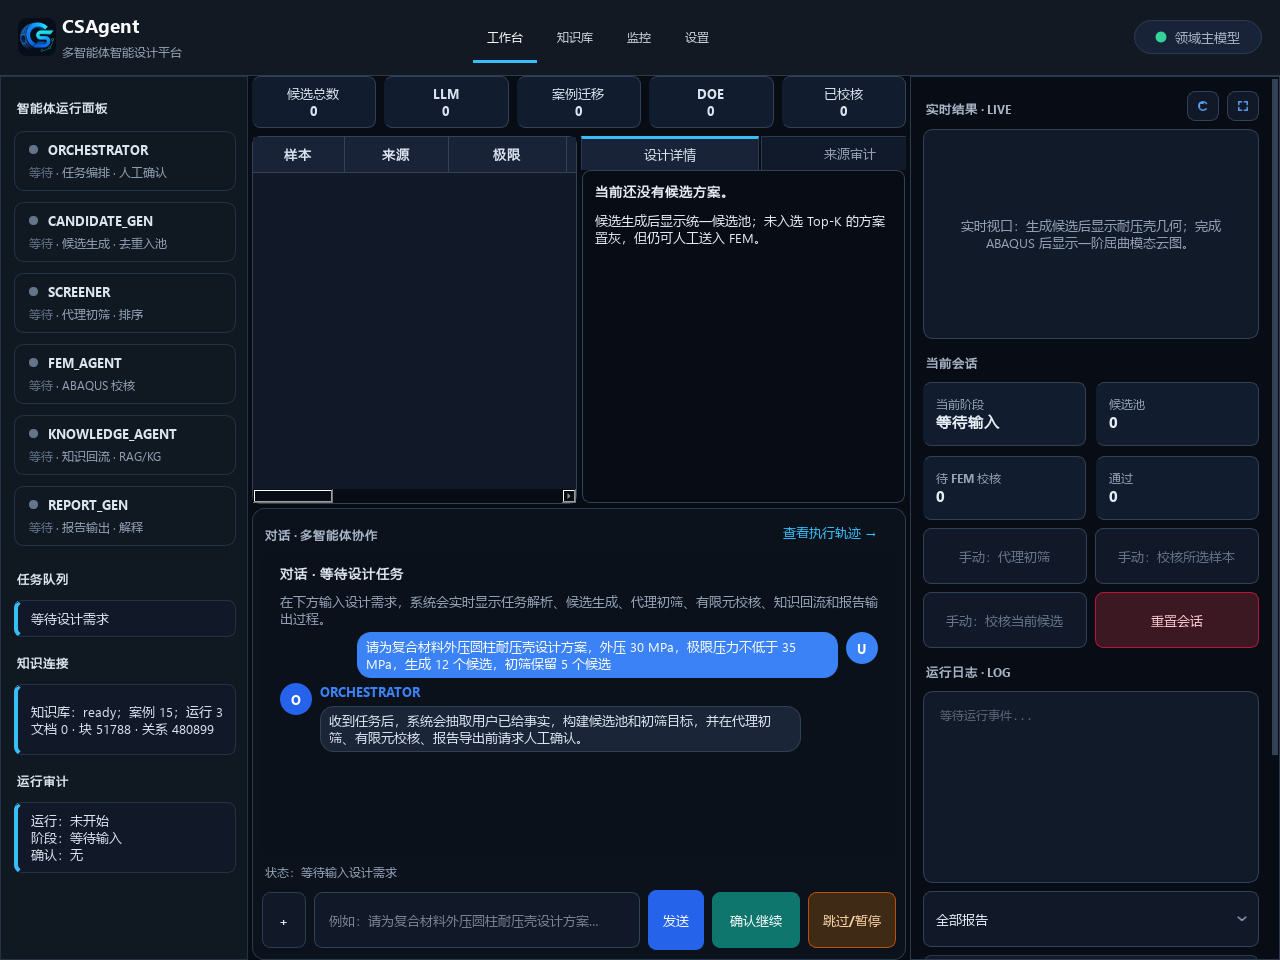
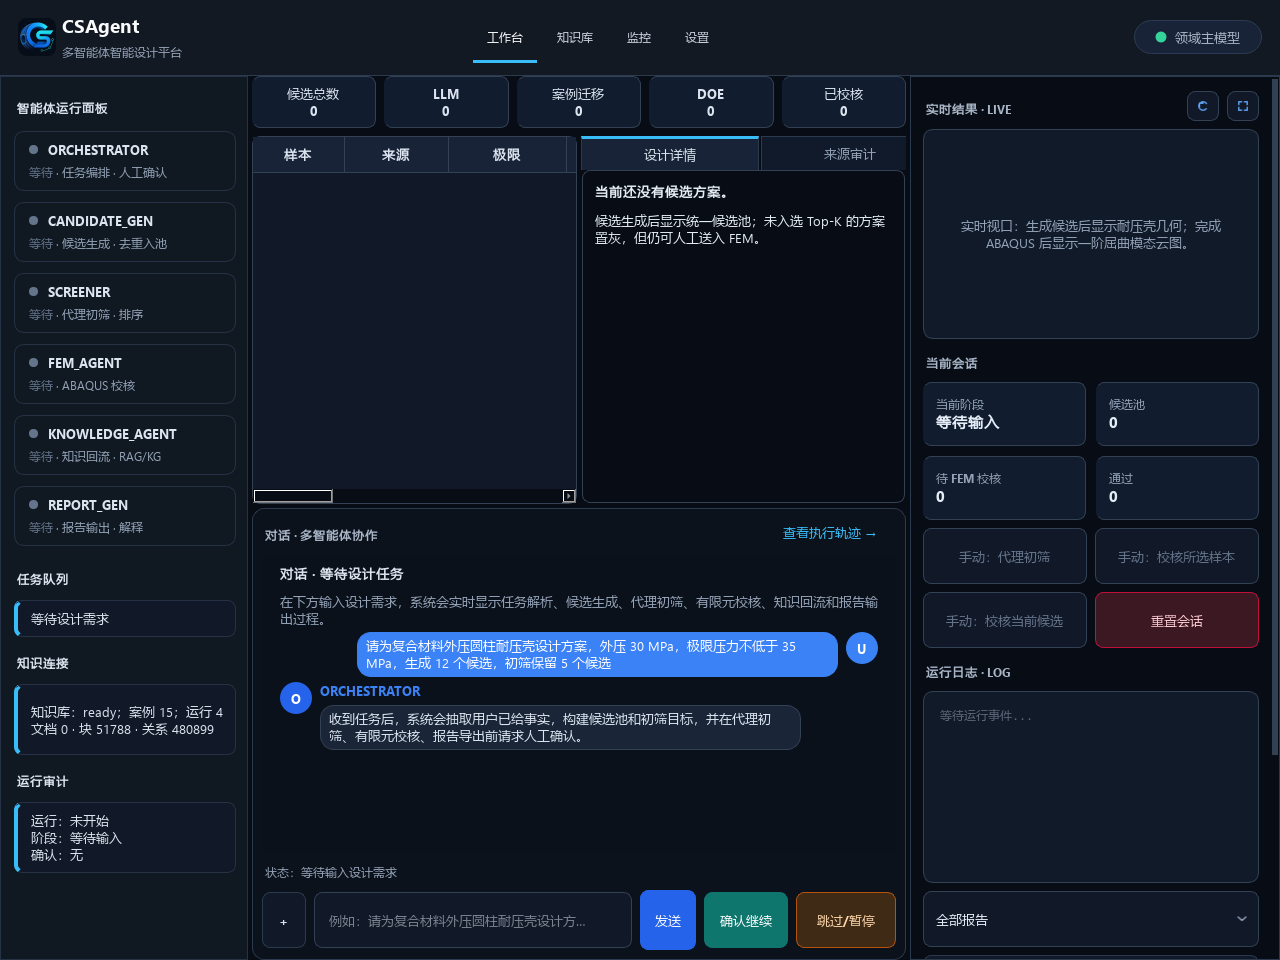
优化运行交互与知识图谱显示

Changed region(s): [[0.2188, 0.6562, 0.625, 0.7812], [0.5, 0.9062, 0.6875, 1.0]]

diff --git a/gui/chat_widget.py b/gui/chat_widget.py
@@ -19,6 +19,7 @@ class ChatWidget(QWidget):
         self.empty_text = ""
         self.empty_state: dict[str, str] = {}
         self._last_render_width = 0
+        self._resize_render_pending = False
 
         self.scroll_area = QScrollArea()
         self.scroll_area.setWidgetResizable(True)
@@ -60,9 +61,15 @@ class ChatWidget(QWidget):
         self._render_messages()
 
     def add_message(self, sender: str, message: str) -> None:
+        follow_latest = self._should_follow_latest()
+        was_empty = not self._messages
         self._messages.append((str(sender), str(message)))
-        self._render_messages()
-        QTimer.singleShot(0, self._scroll_to_bottom)
+        if was_empty:
+            self._clear_layout()
+        self._append_content_widget(self._message_widget(str(sender), str(message)))
+        self._sync_content_minimum_height()
+        if follow_latest:
+            QTimer.singleShot(0, self._scroll_to_bottom)
 
     def toPlainText(self) -> str:
         if not self._messages:
@@ -142,6 +149,18 @@ class ChatWidget(QWidget):
                 widget.deleteLater()
         self.content.setMinimumHeight(0)
 
+    def _append_content_widget(self, widget: QWidget) -> None:
+        count = self.content_layout.count()
+        if count and self.content_layout.itemAt(count - 1).spacerItem() is not None:
+            self.content_layout.insertWidget(count - 1, widget)
+            return
+        self.content_layout.addWidget(widget)
+        self.content_layout.addStretch(1)
+
+    def _should_follow_latest(self) -> bool:
+        scrollbar = self.scroll_area.verticalScrollBar()
+        return scrollbar.maximum() <= 0 or scrollbar.value() >= scrollbar.maximum() - 24
+
     def _scroll_to_bottom(self) -> None:
         scrollbar = self.scroll_area.verticalScrollBar()
         scrollbar.setValue(scrollbar.maximum())
@@ -183,7 +202,7 @@ class ChatWidget(QWidget):
         conversational_cap = max(420, int(viewport_width * 0.76))
         available = min(available, conversational_cap)
         target_max = min(max_width, available)
-        target_min = min(max(min_width, 180), target_max)
+        target_min = min(max(min_width, 48), target_max)
         return target_max, target_min
 
     def _wrapped_line_count(self, text: str, content_width: int) -> int:
@@ -233,16 +252,16 @@ class ChatWidget(QWidget):
             f"QFrame#chatBubble {{ background:{bg}; border:1px solid {border}; border-radius:14px; }}"
         )
         layout = QVBoxLayout(frame)
-        layout.setContentsMargins(8, 4, 8, 4)
+        layout.setContentsMargins(8, 3, 8, 3)
         layout.setSpacing(0)
         text_label = self._label(text, fg, 13)
         text_width = max(120, bubble_width - 16)
         text_label.setFixedWidth(text_width)
         text_height = self._wrapped_text_height(text, text_width)
-        text_label.setFixedHeight(text_height + 2)
+        text_label.setFixedHeight(text_height + 3)
         text_label.setSizePolicy(QSizePolicy.Policy.Fixed, QSizePolicy.Policy.Minimum)
         layout.addWidget(text_label)
-        frame.setFixedHeight(max(34, text_height + 12))
+        frame.setFixedHeight(max(32, text_height + 11))
         return frame
 
     def _avatar_label(self, text: str, bg: str, fg: str) -> QLabel:
@@ -265,10 +284,10 @@ class ChatWidget(QWidget):
 
         if role == "user":
             row_layout.addStretch(1)
-            bubble = self._bubble(message, palette["user_bg"], palette["user_bg"], palette["user_text"], 1120, 220, fit_content=True)
+            bubble = self._bubble(message, palette["user_bg"], palette["user_bg"], palette["user_text"], 1120, 72, fit_content=True)
             row_layout.addWidget(bubble)
             row_layout.addWidget(self._avatar_label("U", palette["user_bg"], palette["user_text"]), 0, Qt.AlignmentFlag.AlignTop)
-            row.setFixedHeight(bubble.height() + 4)
+            row.setMinimumHeight(bubble.height() + 4)
             return row
 
         if role == "system":
@@ -291,7 +310,7 @@ class ChatWidget(QWidget):
         column_layout.addWidget(bubble)
         row_layout.addWidget(column, 1)
         row_height = max(avatar.height(), sender_label.sizeHint().height() + 4 + bubble.height()) + 6
-        row.setFixedHeight(row_height)
+        row.setMinimumHeight(row_height)
         return row
 
     def _empty_widget(self) -> QWidget:
@@ -385,5 +404,10 @@ class ChatWidget(QWidget):
 
     def resizeEvent(self, event) -> None:
         super().resizeEvent(event)
-        if abs(event.size().width() - self._last_render_width) >= 32:
-            self._render_messages()
+        if abs(event.size().width() - self._last_render_width) >= 32 and not self._resize_render_pending:
+            self._resize_render_pending = True
+            QTimer.singleShot(60, self._render_after_resize)
+
+    def _render_after_resize(self) -> None:
+        self._resize_render_pending = False
+        self._render_messages()

diff --git a/gui/knowledge_widget.py b/gui/knowledge_widget.py
@@ -692,10 +692,10 @@ class KnowledgeGraphView(QWidget):
 
         path = QPainterPath(source)
         path.quadTo(control, target)
-        width = 2.05 if highlight else 1.46
+        width = 1.78 if highlight else 1.22
         shadow = QColor("#020617" if self.theme == "dark" else "#ffffff")
-        shadow.setAlpha(112 if self.theme == "dark" else 150)
-        painter.setPen(QPen(shadow, width + 1.25, Qt.PenStyle.SolidLine, Qt.PenCapStyle.RoundCap))
+        shadow.setAlpha(96 if self.theme == "dark" else 132)
+        painter.setPen(QPen(shadow, width + 0.95, Qt.PenStyle.SolidLine, Qt.PenCapStyle.RoundCap))
         painter.drawPath(path)
         painter.setPen(QPen(color, width, Qt.PenStyle.SolidLine, Qt.PenCapStyle.RoundCap))
         painter.drawPath(path)
@@ -959,7 +959,7 @@ class KnowledgeGraphView(QWidget):
             selected_edge = bool(self._selected_node_name and self._selected_node_name in {source, target})
             highlight = key in highlighted or selected_edge
             edge_color = QColor(colors["highlight"]) if highlight else QColor("#1d4ed8" if self.theme == "light" else "#f59e0b")
-            edge_color.setAlpha(244 if key in highlighted else (218 if selected_edge else (186 if self.theme == "light" else 202)))
+            edge_color.setAlpha(238 if key in highlighted else (206 if selected_edge else (172 if self.theme == "light" else 184)))
             source_radius = self._node_radius(source, degrees, counts) + 3.0
             target_radius = self._node_radius(target, degrees, counts) + 5.0
             edge_source, edge_target = self._trim_edge(positions[source], positions[target], source_radius, target_radius)

diff --git a/gui/candidate_widget.py b/gui/candidate_widget.py
@@ -335,7 +335,6 @@ class CandidateWidget(QWidget):
         rule_check = candidate.get("rule_check", {})
         screening_summary = candidate.get("screening_summary") or "尚未完成代理模型初筛。"
         selection_reason = candidate.get("selection_reason") or "当前样本尚未进入优先校核队列。"
-        generation_audit_html = self._generation_audit_html(candidate.get("generation_audit") or {})
 
         ply_items = "".join(
             f"<li>第 {index + 1} 层：{angle}&deg;</li>"
@@ -381,7 +380,6 @@ class CandidateWidget(QWidget):
             f"<b>正式编号：</b>{archive_id}</p>"
             f"<p><b>生成说明：</b>{candidate.get('rationale', '-')}</p>"
             f"<p><b>来源补充：</b>{candidate.get('origin_summary') or '当前候选未附带额外来源说明。'}</p>"
-            f"{generation_audit_html}"
             f"<p><b>代理预测：</b> 极限压力={_format_number(candidate.get('surrogate_ultimate_pressure_MPa'))} MPa，"
             f"ASME RD-1172线性屈曲压力={_format_number(candidate.get('asme_linear_buckling_pressure_MPa'))} MPa，"
             f"PBIPF 预测极限压力为 {_format_number(candidate.get('surrogate_PBIPF_MPa'))} MPa，"

diff --git a/gui/main_window.py b/gui/main_window.py
@@ -359,8 +359,8 @@ class MainWindow(QMainWindow):
         self.confirm_yes_button = QPushButton(self.locale.text("button.confirm"))
         self.confirm_no_button = QPushButton(self.locale.text("button.pause"))
         self.generate_button.setFixedWidth(56)
-        self.confirm_yes_button.setFixedWidth(88)
-        self.confirm_no_button.setFixedWidth(88)
+        self.confirm_yes_button.setFixedWidth(84)
+        self.confirm_no_button.setFixedWidth(100)
         self.trace_button = QPushButton(self.locale.text("button.view_trace"))
         self.trace_button.setObjectName("traceLinkButton")
         self.trace_button.setMinimumWidth(132)
@@ -1861,8 +1861,8 @@ class MainWindow(QMainWindow):
     def _fit_input_action_buttons(self) -> None:
         for button, minimum_width in [
             (self.generate_button, 56),
-            (self.confirm_yes_button, 88),
-            (self.confirm_no_button, 88),
+            (self.confirm_yes_button, 84),
+            (self.confirm_no_button, 100),
         ]:
             text_width = button.fontMetrics().horizontalAdvance(button.text())
             button.setFixedWidth(max(minimum_width, text_width + 24))

diff --git a/tests/test_candidate_widget.py b/tests/test_candidate_widget.py
@@ -65,9 +65,11 @@ def test_candidate_widget_renders_generation_audit() -> None:
         widget.candidateSelected.connect(lambda candidate: selected.append(candidate))
         widget.update_candidates([_candidate()])
         html = widget.audit_browser.toHtml()
+        detail_html = widget.detail_browser.toHtml()
 
         assert "来源审计" in widget.summary_label.text()
         assert "候选来源与去重审计" in html
+        assert "候选来源与去重审计" not in detail_html
         assert "初始配额" in html
         assert "规则过滤原因" in html
         assert "radius_mm 超出范围" in html
